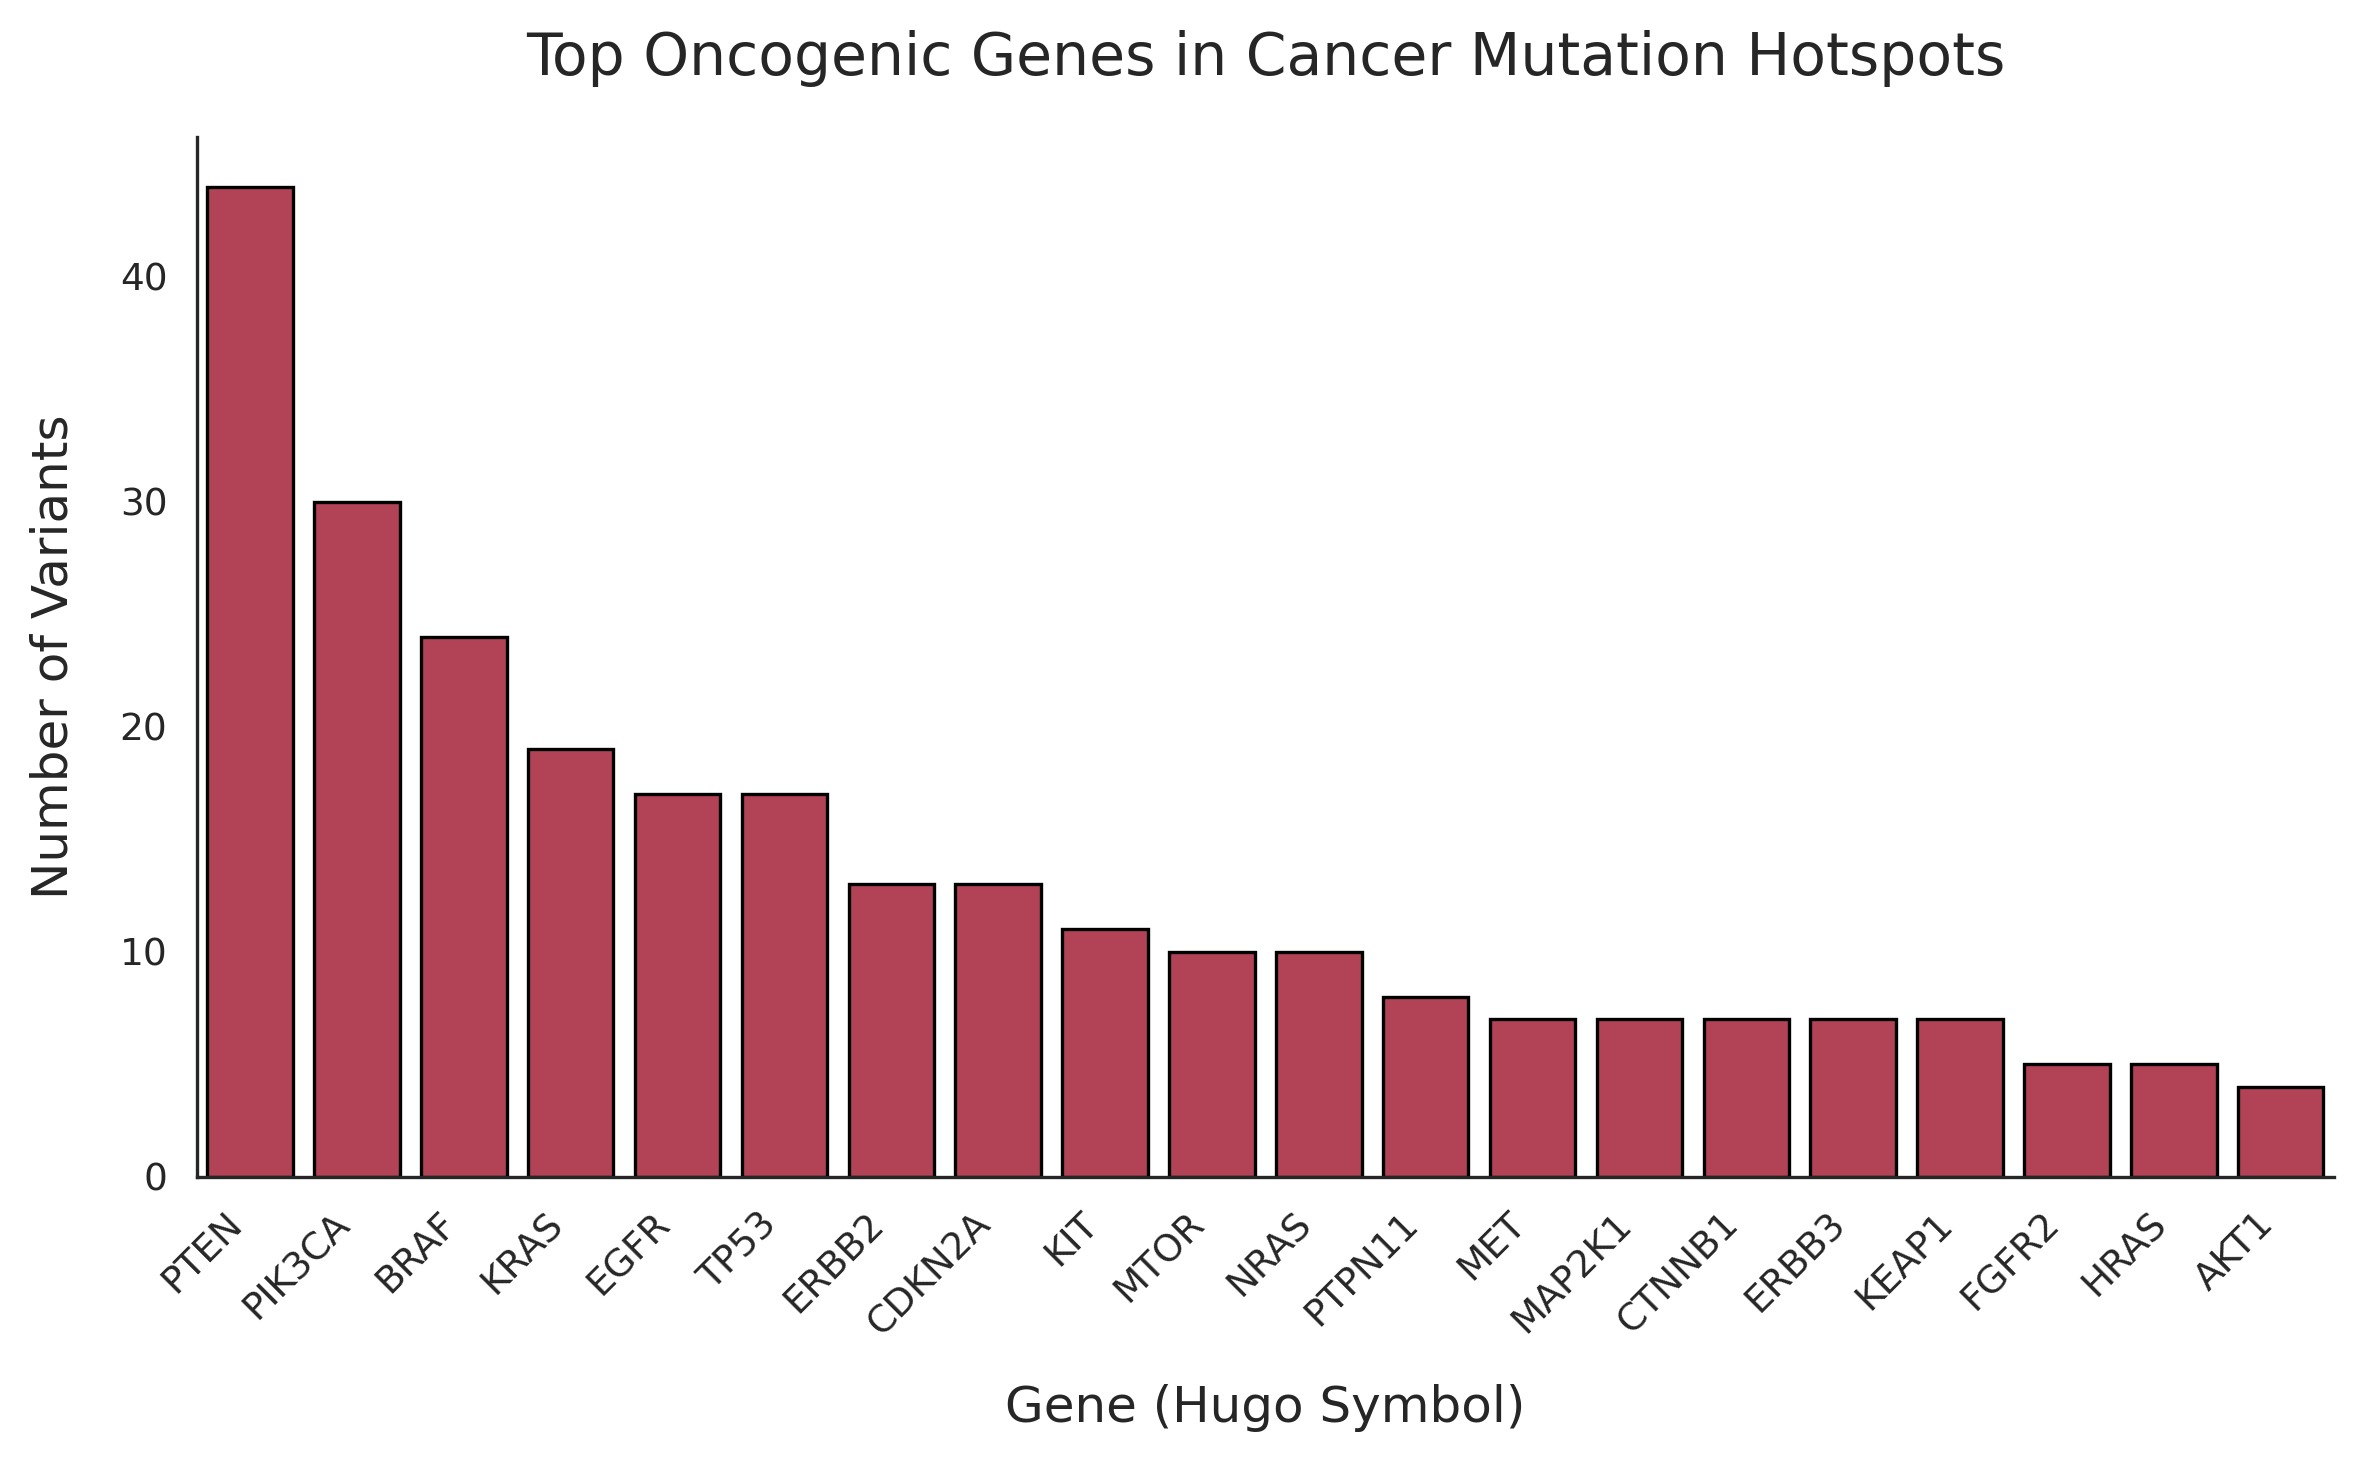
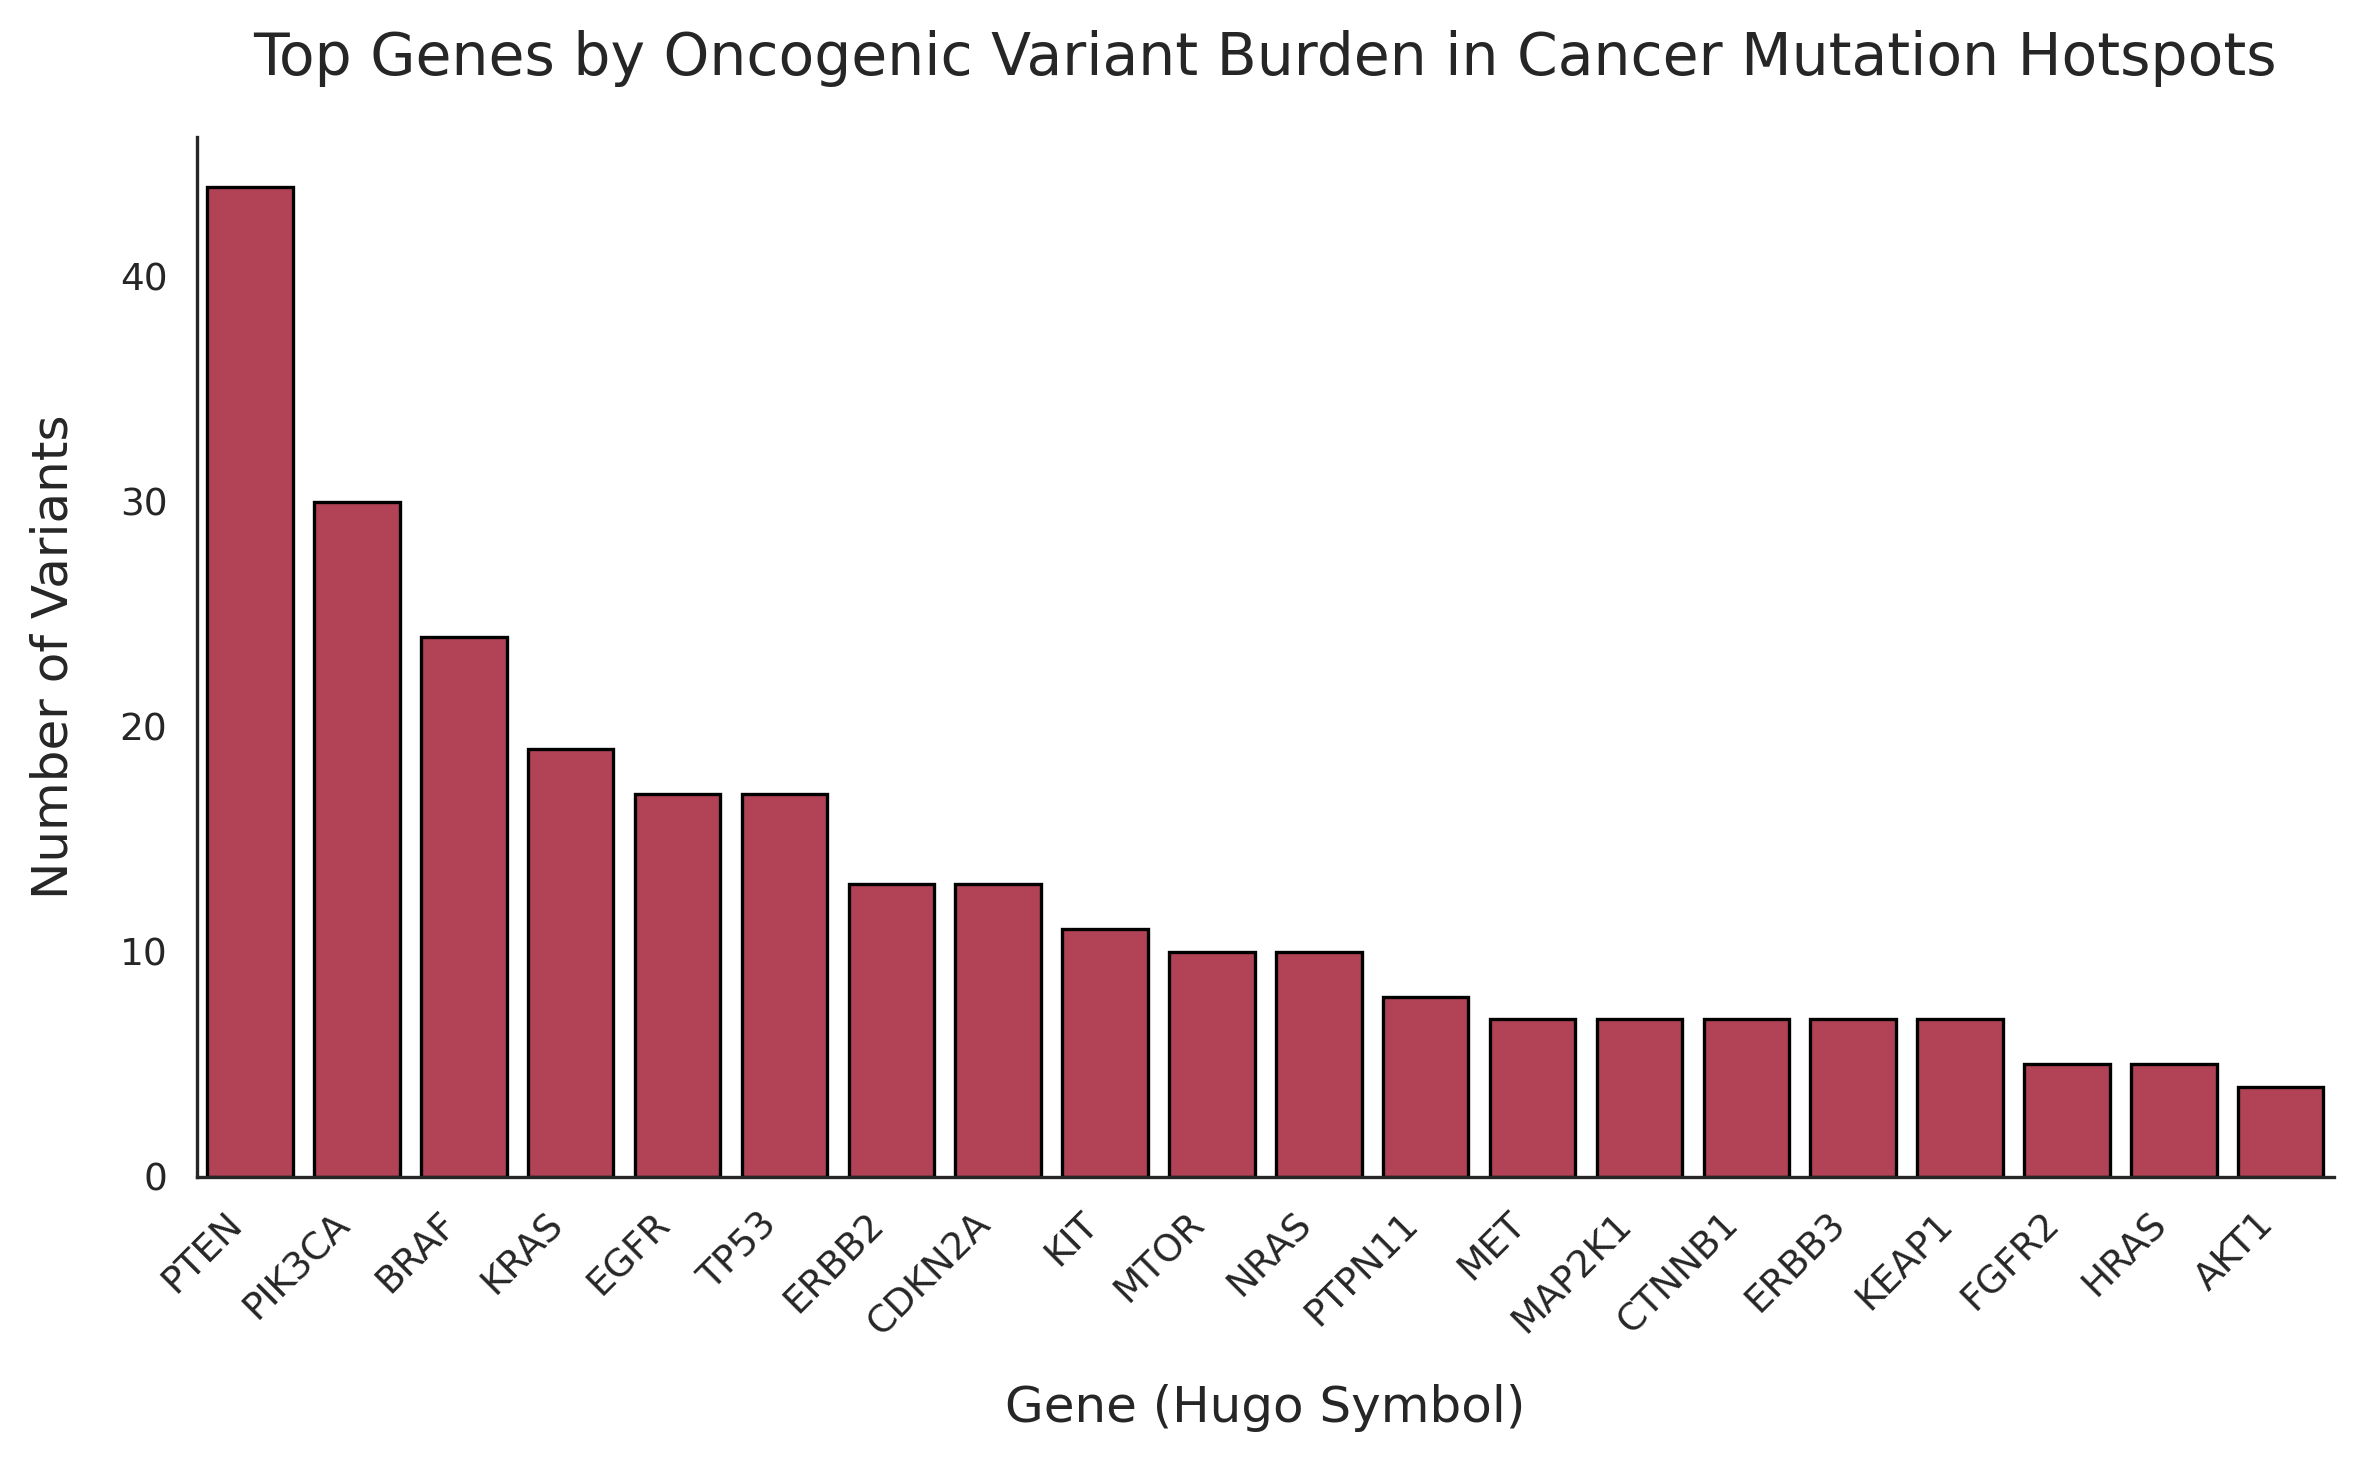
edit: oncogenic genes to genes with most oncogenic variants

Changed region(s): [[0.0926, 0.0, 0.9573, 0.0616]]

diff --git a/scripts/statistics/stats_top_genes.py b/scripts/statistics/stats_top_genes.py
@@ -1,12 +1,12 @@
 
 # ============================================================
-# Statistics: Top 10 oncogenic genes 
+# Statistics: Top 10 genes with the most oncogenic variants 
 # ============================================================
 
 """
 Script purpose: 
 
-Perform statistics on top 10 oncogenic genes (by oncogenic variant counts)
+Perform statistics on variants in the ten genes with most oncogenic variants 
 using the stats_func() 
 
 Features included: 
@@ -39,7 +39,7 @@ from scripts.statistics.stats_function import stats_func
 
 def getargs(): 
     parser = argparse.ArgumentParser(
-        description="Perform statistics on variant data."
+        description="Perform statistics variants in the genes with most oncogenic variants."
     ) 
 
     parser.add_argument(
@@ -79,7 +79,8 @@ variants["has_gnomAD_AF"] = (
 )
 
 # -------------------------------------------
-# Extract top oncogenic genes 
+# Extract top genes 
+# with the most oncogenic variants 
 # -------------------------------------------
 
 oncogenic_variants = variants[variants['ONCOGENIC'] == 'Oncogenic']
@@ -91,7 +92,7 @@ oncogenic_genes = (
 )
 
 top_10_onco_genes = oncogenic_genes["Hugo_Symbol"].head(10).tolist() 
-print("Top 10 oncogenic genes (by variant count):")
+print("Top 10 genes with the most oncogenic variants:")
 print(top_10_onco_genes)
 
 # -------------------------------------------
@@ -111,5 +112,5 @@ features = ["gnomAD_AF", "has_gnomAD_AF", "In_Hotspot", "IN_DOMAIN", "IN_FUNC_SI
 # Run statistics function 
 # -------------------------------------------
 
-stats_func(top_10_gene_variants, features, "Top 10 oncogenic genes")
+stats_func(top_10_gene_variants, features, "Variants from the ten genes with most oncogenic variants")
 print("\n")

diff --git a/scripts/EDA/germline_proximity.py b/scripts/EDA/germline_proximity.py
@@ -16,7 +16,7 @@ Major outputs:
 1. Number of variants with a germline distance
 2. Descriptive statistics 
 3. Distribution of germline distance between classes 
-5. Germline distance distributions per gene (top oncogenic genes)
+5. Germline distance distributions per gene (genes with most oncogenic variants)
 
 All plots are saved in:
    plots/germline_proximity/
@@ -237,13 +237,13 @@ print(f"Plotting complete! Boxplot saved as '{save_dir}/boxplot_germline_dist.pn
 
 
 # ------------------------------------------------------------
-# Find the top oncogenic genes with germline distances
+# Find the top genes (genes with most oncogenic variants) with germline distances
 # ------------------------------------------------------------
 
 oncogenic_var = variants_plot[variants_plot["ONCOGENIC"] == "Oncogenic"].copy()
 top_genes_full = oncogenic_var["Hugo_Symbol"].value_counts()
 
-print("\nThe top 10 oncogenic genes total are:")
+print("\nThe top 10 genes (with most oncogenic variants) are:")
 print(top_genes_full.head(10), "\n")
 
 # ------------------------------------------------------------
@@ -292,7 +292,7 @@ for gene in top_genes_full.head(20).index:
 # Save variants with germline distances in top genes to .tsv 
 # ------------------------------------------------------------
 
-print("Saving variants with germline distances in top genes to .tsv file..")
+print("Saving variants with germline distances in gene with most oncogenic variants to .tsv file..")
 top_20_genes = top_genes_full.head(20).index.tolist() 
 print(f"The top 20 genes: {top_20_genes}")
 top_20_variants = variants_plot[variants_plot["Hugo_Symbol"].isin(top_20_genes)]

diff --git a/scripts/statistics/stats_protein_domains.py b/scripts/statistics/stats_protein_domains.py
@@ -36,7 +36,7 @@ from pathlib import Path
 
 def getargs(): 
     parser = argparse.ArgumentParser(
-        description="Perform statistics on variant data."
+        description="Perform statistics on protein domains."
     ) 
 
     parser.add_argument(
@@ -164,7 +164,7 @@ print("\nResults: Top 10 Domains (All Variants)")
 stats_domains_all = analyse_top_domains(df_domains, n_top=10, alpha=args.alpha)
 print(stats_domains_all.to_string(index=False))
 
-# Analyze for top 10 oncogenes
+# Analyze for the 10 genes with most oncogenic variants 
 top_10_onco_genes = (
     variants[variants['ONCOGENIC'] == 'Oncogenic']['Hugo_Symbol']
     .value_counts()
@@ -172,7 +172,7 @@ top_10_onco_genes = (
     .index.tolist()
 )
 
-print("\nResults: Top 10 Domains (Top 10 Oncogenic Genes)")
+print("\nResults: Top 10 Domains (In the ten genes with most oncogenic variants)")
 df_top_genes_domains = df_domains[df_domains["Hugo_Symbol"].isin(top_10_onco_genes)]
 stats_domains_top = analyse_top_domains(df_top_genes_domains, n_top=10, alpha=args.alpha)
 print(stats_domains_top.to_string(index=False))

diff --git a/scripts/statistics/stats_func_sites.py b/scripts/statistics/stats_func_sites.py
@@ -186,11 +186,12 @@ print(stats_all.to_string(index=False))
 print("-"*30)
 
 # ------------------------------------------------
-# Functional site analysis: top 10 oncogenic genes 
+# Functional site analysis: top genes 
+# (genes with most oncogenic variants) 
 # ------------------------------------------------
 
 print("-"*40) 
-print("Top 10 oncogenic genes") 
+print("Top genes: genes with most oncogenic variants") 
 print("-"*40)
 
 top_10_onco_genes = (
@@ -202,11 +203,11 @@ top_10_onco_genes = (
 
 print(f"Top 10 genes: {top_10_onco_genes}")
 
-# extract top oncogenic variants
+# extract variants from the genes with most oncogenic variants 
 df_top_genes = df_with_func_sites[df_with_func_sites["Hugo_Symbol"].isin(top_10_onco_genes)]
 stats_top_10 = analyse_func_sites(df_top_genes, alpha=args.alpha) 
 
-print("Results top 10 oncogenic genes:")
+print("Results top 10 genes:")
 print(stats_top_10.to_string(index=False))
 print("-"*30)
 

diff --git a/scripts/EDA/functional_sites.py b/scripts/EDA/functional_sites.py
@@ -13,9 +13,9 @@ Major outputs:
 1. Counts and fractions of Oncogenic vs Likely Neutral variants inside/outside functional sites
 2. Plot: Variant counts per functional site type per class
 3. Plot: Fraction of variants per functional site type per class 
-4. Plot: Top genes by oncogenic variant burden per functional site
-5. Plot: Heatmap of top oncogenic genes (variant burden) in filtered functional sites  
-6. Plot: Oncogenic-to-neutral ratios in top oncogenic genes per functional site type
+4. Plot: Genes with most oncogenic variants per functional site
+5. Plot: Heatmap of genes with most oncogenic variants in filtered functional sites  
+6. Plot: Oncogenic-to-neutral ratios in genes with most oncogenic variants per functional site type
 
 All plots are saved in:
     plots/functionalsites

diff --git a/scripts/EDA/top_genes.py b/scripts/EDA/top_genes.py
@@ -23,7 +23,7 @@ Script content:
 2. Extract variants by oncogenicity class (Oncogenic, Likely Oncogenic,
    Likely Neutral)
 3. Identify and visualize the top genes by number of variants per class
-4. Compare oncogenic and likely neutral variant counts within the genes with the highest number of oncogenic variants 
+4. Compare oncogenic and likely neutral variant counts within the genes with the most oncogenic variants 
 5. Visualize both absolute counts and relative (percentage) distributions
    of oncogenicity classes per gene
 

diff --git a/scripts/EDA/cancerhotspots.py b/scripts/EDA/cancerhotspots.py
@@ -296,7 +296,7 @@ sns.barplot(data=top_oncogenes,
 
 sns.despine() 
 
-plt.title("Top Oncogenic Genes in Cancer Mutation Hotspots", fontsize=14, pad=15) 
+plt.title("Top Genes by Oncogenic Variant Burden in Cancer Mutation Hotspots", fontsize=14, pad=15) 
 plt.xlabel("Gene (Hugo Symbol)", fontsize=12, labelpad=10) 
 plt.ylabel("Number of Variants", fontsize=12, labelpad=10) 
 plt.xticks(rotation=45, ha="right", fontsize=9)

diff --git a/scripts/EDA/protein_domains.py b/scripts/EDA/protein_domains.py
@@ -12,7 +12,7 @@ variants distribute across different protein domains and genes.
 
 Major outputs:
   1. Variant distribution inside/outside protein domains 
-  2. Top domains (by variant count)
+  2. Top domains (by total variant count)
   3. Top domains enriched for oncogenic variants 
   4. Heatmap of oncogenic fractions across top domains and top genes 
 
